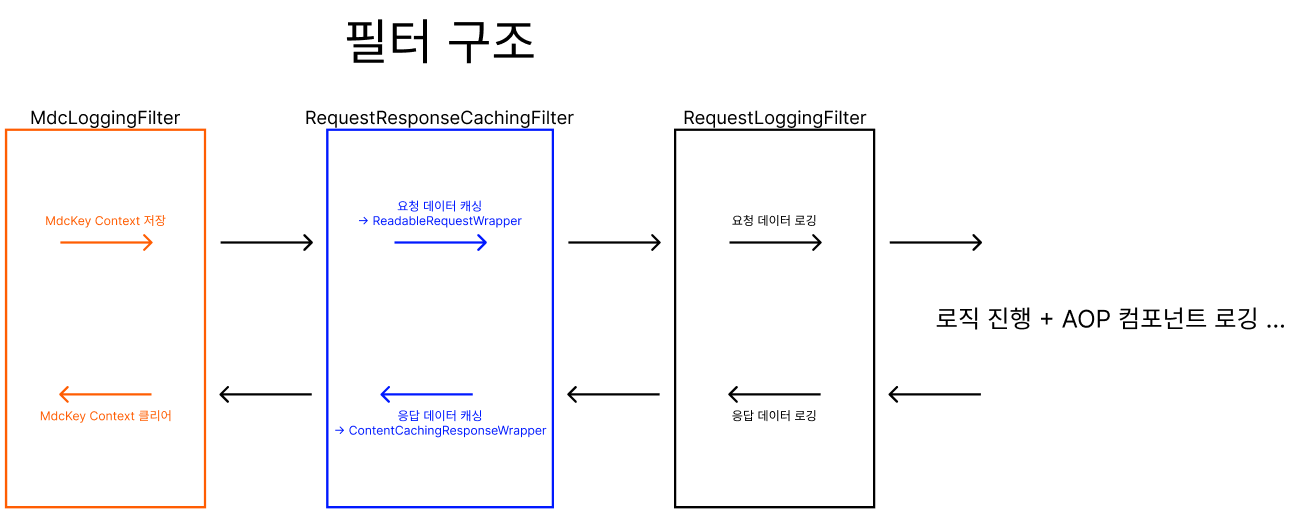
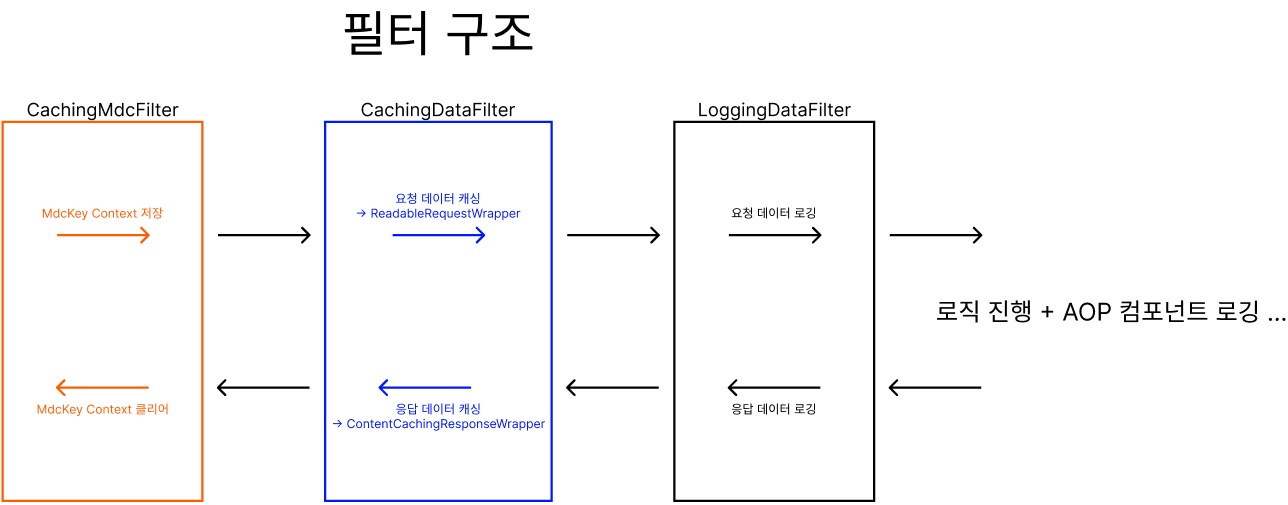
update

diff --git a/_posts/2023-10-25-Request & Response 데이터 로그 남기기.md b/_posts/2023-10-25-Request & Response 데이터 로그 남기기.md
@@ -221,7 +221,7 @@ enum class MdcKey {
     START_TIME_MILLIS,
 }
 
-class MdcLoggingFilter : Filter {
+class CachingMdcFilter : Filter {
     override fun doFilter(
         request: ServletRequest,
         response: ServletResponse,
@@ -418,7 +418,7 @@ fun response(@RequestBody data: Data): Data {
 이를 활용해서 요청 & 응답 데이터를 캐싱하는 Filter를 구현해보자
 
 ```kotlin
-class RequestResponseCachingFilter : OncePerRequestFilter() {
+class CachingDataFilter : OncePerRequestFilter() {
     override fun doFilterInternal(
         request: HttpServletRequest,
         response: HttpServletResponse,
@@ -450,20 +450,20 @@ ContentCachingRequestWrapper에서 caching되는 stream data를 읽기 위해서
 <br>
 현재 구현하고자 하는 로깅 구조는 다음과 같다
 
-1. Filter에서 MdcKey 기반 MDC Map 설정 - MdcLoggingFilter
-2. Filter에서 요청 데이터 캐싱 - RequestResponseCachingFilter
-3. Filter's doFilter에서 Request 데이터 로깅 - RequestLoggingFilter
+1. Filter에서 MdcKey 기반 MDC Map 설정 - CachingMdcFilter
+2. Filter에서 요청 데이터 캐싱 - CachingDataFilter
+3. Filter's doFilter에서 Request 데이터 로깅 - LoggingDataFilter
 4. ...
 5. ArgumentResolver에서 @RequestBody를 활용한 데이터 바인딩
 6. ...
-7. Filter에서 응답 데이터 캐싱 - RequestResponseCachingFilter
-8. Filter's doFilter에서 Response 데이터 로깅 - RequestLoggingFilter
+7. Filter에서 응답 데이터 캐싱 - CachingDataFilter
+8. Filter's doFilter에서 Response 데이터 로깅 - LoggingDataFilter
 
 <br>
-이러한 과정에서 Request 데이터를 로깅하는 것은 아래와 같은 2가지 점으로 인해 불가능하다
+이러한 과정에서 Request 데이터를 로깅하는 것은 아래와 같은 이유로 불가능하다
 
 1. 캐싱없이 읽음 = ArgumentResolver에서 `Stream closed`로 인해 데이터 바인딩 실패
-2. 캐싱 적용 = RequestResponseCachingFilter의 `ContentCachingRequestWrapper`은 이전에 최소 1번은 읽어야 캐싱되는데 여기서 처음 읽으니까 캐싱 불가능
+2. 캐싱 적용 = CachingDataFilter의 `ContentCachingRequestWrapper`은 이전에 최소 1번은 읽어야 캐싱되는데 여기서 처음 읽으니까 캐싱 불가능
 
 <br>
 간단한 테스트를 통해서 최소 1번은 읽혀야 실제로 캐싱되는지 확인해보자
@@ -564,7 +564,7 @@ class ReadableRequestWrapper(
     }
 }
 
-class RequestResponseCachingFilter : OncePerRequestFilter() {
+class CachingDataFilter : OncePerRequestFilter() {
     override fun doFilterInternal(
         request: HttpServletRequest,
         response: HttpServletResponse,
@@ -633,7 +633,7 @@ fun cachingV2(
 ## 4. Request & Response 데이터 로깅 Filter
 
 ```kotlin
-class RequestLoggingFilter(
+class LoggingDataFilter(
     private val loggingStatusManager: LoggingStatusManager,
     vararg ignoredUrls: String,
 ) : Filter {
@@ -753,31 +753,31 @@ class RequestLoggingFilter(
 @Configuration
 class WebLogConfig {
     @Bean
-    fun firstFilter(): FilterRegistrationBean<MdcLoggingFilter> {
-        return FilterRegistrationBean<MdcLoggingFilter>().apply {
+    fun firstFilter(): FilterRegistrationBean<CachingMdcFilter> {
+        return FilterRegistrationBean<CachingMdcFilter>().apply {
             order = 1
-            filter = MdcLoggingFilter()
-            setName("mdcLoggingFilter")
+            filter = CachingMdcFilter()
+            setName("cachingMdcFilter")
             addUrlPatterns("/api/*")
         }
     }
 
     @Bean
-    fun secondFilter(): FilterRegistrationBean<RequestResponseCachingFilter> {
-        return FilterRegistrationBean<RequestResponseCachingFilter>().apply {
+    fun secondFilter(): FilterRegistrationBean<CachingDataFilter> {
+        return FilterRegistrationBean<CachingDataFilter>().apply {
             order = 2
-            filter = RequestResponseCachingFilter()
-            setName("requestResponseCachingFilter")
+            filter = CachingDataFilter()
+            setName("cachingDataFilter")
             addUrlPatterns("/api/*")
         }
     }
 
     @Bean
-    fun thirdFilter(loggingStatusManager: LoggingStatusManager): FilterRegistrationBean<RequestLoggingFilter> {
-        return FilterRegistrationBean<RequestLoggingFilter>().apply {
+    fun thirdFilter(loggingStatusManager: LoggingStatusManager): FilterRegistrationBean<LoggingDataFilter> {
+        return FilterRegistrationBean<LoggingDataFilter>().apply {
             order = 3
-            filter = RequestLoggingFilter(loggingStatusManager, *ignoredUrl)
-            setName("requestLoggingFilter")
+            filter = LoggingDataFilter(loggingStatusManager, *ignoredUrl)
+            setName("loggingDataFilter")
             addUrlPatterns("/api/*")
         }
     }
@@ -904,16 +904,16 @@ class MemoryBookRepository : BookRepository {
 ```
 
 ```text
-[2024-03-30 16:47:37.505] [INFO ] [http-nio-8080-exec-1] [c.s.l.g.f.RequestLoggingFilter] [1d43260b-8bbd-4e30-919e-74fa614b829e] [Request START] = [Task ID = 1d43260b-8bbd-4e30-919e-74fa614b829e, IP = 0:0:0:0:0:0:0:1, HTTP Method = POST, Uri = /api/v1/books, Params = [], 요청 시작 시간 = 2024-03-30T16:47:37.500111] 
-[2024-03-30 16:47:37.507] [INFO ] [http-nio-8080-exec-1] [c.s.l.g.f.RequestLoggingFilter] [1d43260b-8bbd-4e30-919e-74fa614b829e] Request Body = {"name": "Spring"} 
+[2024-03-30 16:47:37.505] [INFO ] [http-nio-8080-exec-1] [c.s.l.g.f.LoggingDataFilter] [1d43260b-8bbd-4e30-919e-74fa614b829e] [Request START] = [Task ID = 1d43260b-8bbd-4e30-919e-74fa614b829e, IP = 0:0:0:0:0:0:0:1, HTTP Method = POST, Uri = /api/v1/books, Params = [], 요청 시작 시간 = 2024-03-30T16:47:37.500111] 
+[2024-03-30 16:47:37.507] [INFO ] [http-nio-8080-exec-1] [c.s.l.g.f.LoggingDataFilter] [1d43260b-8bbd-4e30-919e-74fa614b829e] Request Body = {"name": "Spring"} 
 [2024-03-30 16:47:37.669] [INFO ] [http-nio-8080-exec-1] [c.s.l.g.l.LoggingTracer] [1d43260b-8bbd-4e30-919e-74fa614b829e] |--->BookApi.save(..) args=[Request(name=Spring)] 
 [2024-03-30 16:47:37.669] [INFO ] [http-nio-8080-exec-1] [c.s.l.g.l.LoggingTracer] [1d43260b-8bbd-4e30-919e-74fa614b829e] |    |--->BookService.save(..) args=[Spring] 
 [2024-03-30 16:47:37.669] [INFO ] [http-nio-8080-exec-1] [c.s.l.g.l.LoggingTracer] [1d43260b-8bbd-4e30-919e-74fa614b829e] |    |    |--->MemoryBookRepository.save(..) args=[Book(id=0, name=Spring)] 
 [2024-03-30 16:47:37.671] [INFO ] [http-nio-8080-exec-1] [c.s.l.g.l.LoggingTracer] [1d43260b-8bbd-4e30-919e-74fa614b829e] |    |    |<---MemoryBookRepository.save(..) time=166ms 
 [2024-03-30 16:47:37.671] [INFO ] [http-nio-8080-exec-1] [c.s.l.g.l.LoggingTracer] [1d43260b-8bbd-4e30-919e-74fa614b829e] |    |<---BookService.save(..) time=166ms 
 [2024-03-30 16:47:37.671] [INFO ] [http-nio-8080-exec-1] [c.s.l.g.l.LoggingTracer] [1d43260b-8bbd-4e30-919e-74fa614b829e] |<---BookApi.save(..) time=166ms 
-[2024-03-30 16:47:37.704] [INFO ] [http-nio-8080-exec-1] [c.s.l.g.f.RequestLoggingFilter] [1d43260b-8bbd-4e30-919e-74fa614b829e] Response Body = {"id":1,"name":"Spring"} 
-[2024-03-30 16:47:37.704] [INFO ] [http-nio-8080-exec-1] [c.s.l.g.f.RequestLoggingFilter] [1d43260b-8bbd-4e30-919e-74fa614b829e] [Request END] = [Task ID = 1d43260b-8bbd-4e30-919e-74fa614b829e, IP = 0:0:0:0:0:0:0:1, HTTP Method = POST, Uri = /api/v1/books, HTTP Status = 200, 요청 처리 시간 = 198ms] 
+[2024-03-30 16:47:37.704] [INFO ] [http-nio-8080-exec-1] [c.s.l.g.f.LoggingDataFilter] [1d43260b-8bbd-4e30-919e-74fa614b829e] Response Body = {"id":1,"name":"Spring"} 
+[2024-03-30 16:47:37.704] [INFO ] [http-nio-8080-exec-1] [c.s.l.g.f.LoggingDataFilter] [1d43260b-8bbd-4e30-919e-74fa614b829e] [Request END] = [Task ID = 1d43260b-8bbd-4e30-919e-74fa614b829e, IP = 0:0:0:0:0:0:0:1, HTTP Method = POST, Uri = /api/v1/books, HTTP Status = 200, 요청 처리 시간 = 198ms] 
 ```
 
 - 성공적으로 전역적인 Request & Response 데이터 + 컴포넌트 호출 구조를 로깅할 수 있다
@@ -970,26 +970,26 @@ class EventHandler {
 
 ```text
 // @Async
-[2024-03-30 17:03:14.473] [INFO ] [http-nio-8080-exec-3] [c.s.l.g.f.RequestLoggingFilter] [1b30f0bb-ba49-413c-ada6-0fabea70a2ea] [Request START] = [Task ID = 1b30f0bb-ba49-413c-ada6-0fabea70a2ea, IP = 0:0:0:0:0:0:0:1, HTTP Method = GET, Uri = /api/v1/async, Params = [], 요청 시작 시간 = 2024-03-30T17:03:14.467496200] 
-[2024-03-30 17:03:14.474] [INFO ] [http-nio-8080-exec-3] [c.s.l.g.f.RequestLoggingFilter] [1b30f0bb-ba49-413c-ada6-0fabea70a2ea] Request Body = { Empty } 
+[2024-03-30 17:03:14.473] [INFO ] [http-nio-8080-exec-3] [c.s.l.g.f.LoggingDataFilter] [1b30f0bb-ba49-413c-ada6-0fabea70a2ea] [Request START] = [Task ID = 1b30f0bb-ba49-413c-ada6-0fabea70a2ea, IP = 0:0:0:0:0:0:0:1, HTTP Method = GET, Uri = /api/v1/async, Params = [], 요청 시작 시간 = 2024-03-30T17:03:14.467496200] 
+[2024-03-30 17:03:14.474] [INFO ] [http-nio-8080-exec-3] [c.s.l.g.f.LoggingDataFilter] [1b30f0bb-ba49-413c-ada6-0fabea70a2ea] Request Body = { Empty } 
 [2024-03-30 17:03:14.500] [INFO ] [http-nio-8080-exec-3] [c.s.l.g.l.LoggingTracer] [1b30f0bb-ba49-413c-ada6-0fabea70a2ea] |--->HelloApi.async() args=[] 
 [2024-03-30 17:03:14.502] [INFO ] [http-nio-8080-exec-3] [c.s.l.g.l.LoggingTracer] [1b30f0bb-ba49-413c-ada6-0fabea70a2ea] |<---HelloApi.async() time=29ms 
 [2024-03-30 17:03:14.502] [INFO ] [task-1] [c.s.l.g.l.LoggingTracer] [NO REQUEST ID] |--->HelloService.async() args=[] 
 [2024-03-30 17:03:14.503] [INFO ] [task-1] [c.s.l.g.l.LoggingTracer] [NO REQUEST ID] |<---HelloService.async() time=1ms 
-[2024-03-30 17:03:14.516] [INFO ] [http-nio-8080-exec-3] [c.s.l.g.f.RequestLoggingFilter] [1b30f0bb-ba49-413c-ada6-0fabea70a2ea] Response Body = ok 
-[2024-03-30 17:03:14.516] [INFO ] [http-nio-8080-exec-3] [c.s.l.g.f.RequestLoggingFilter] [1b30f0bb-ba49-413c-ada6-0fabea70a2ea] [Request END] = [Task ID = 1b30f0bb-ba49-413c-ada6-0fabea70a2ea, IP = 0:0:0:0:0:0:0:1, HTTP Method = GET, Uri = /api/v1/async, HTTP Status = 200, 요청 처리 시간 = 42ms] 
+[2024-03-30 17:03:14.516] [INFO ] [http-nio-8080-exec-3] [c.s.l.g.f.LoggingDataFilter] [1b30f0bb-ba49-413c-ada6-0fabea70a2ea] Response Body = ok 
+[2024-03-30 17:03:14.516] [INFO ] [http-nio-8080-exec-3] [c.s.l.g.f.LoggingDataFilter] [1b30f0bb-ba49-413c-ada6-0fabea70a2ea] [Request END] = [Task ID = 1b30f0bb-ba49-413c-ada6-0fabea70a2ea, IP = 0:0:0:0:0:0:0:1, HTTP Method = GET, Uri = /api/v1/async, HTTP Status = 200, 요청 처리 시간 = 42ms] 
 
 // ApplicationEventPublisher
-[2024-03-30 17:04:26.409] [INFO ] [http-nio-8080-exec-1] [c.s.l.g.f.RequestLoggingFilter] [d6d5104c-df73-49f5-81c7-657ab813f7af] [Request START] = [Task ID = d6d5104c-df73-49f5-81c7-657ab813f7af, IP = 0:0:0:0:0:0:0:1, HTTP Method = GET, Uri = /api/v1/event, Params = [], 요청 시작 시간 = 2024-03-30T17:04:26.394100900] 
-[2024-03-30 17:04:26.417] [INFO ] [http-nio-8080-exec-1] [c.s.l.g.f.RequestLoggingFilter] [d6d5104c-df73-49f5-81c7-657ab813f7af] Request Body = { Empty } 
+[2024-03-30 17:04:26.409] [INFO ] [http-nio-8080-exec-1] [c.s.l.g.f.LoggingDataFilter] [d6d5104c-df73-49f5-81c7-657ab813f7af] [Request START] = [Task ID = d6d5104c-df73-49f5-81c7-657ab813f7af, IP = 0:0:0:0:0:0:0:1, HTTP Method = GET, Uri = /api/v1/event, Params = [], 요청 시작 시간 = 2024-03-30T17:04:26.394100900] 
+[2024-03-30 17:04:26.417] [INFO ] [http-nio-8080-exec-1] [c.s.l.g.f.LoggingDataFilter] [d6d5104c-df73-49f5-81c7-657ab813f7af] Request Body = { Empty } 
 [2024-03-30 17:04:26.481] [INFO ] [http-nio-8080-exec-1] [c.s.l.g.l.LoggingTracer] [d6d5104c-df73-49f5-81c7-657ab813f7af] |--->HelloApi.event() args=[] 
 [2024-03-30 17:04:26.488] [INFO ] [http-nio-8080-exec-1] [c.s.l.g.l.LoggingTracer] [d6d5104c-df73-49f5-81c7-657ab813f7af] |    |--->HelloService.event() args=[] 
 [2024-03-30 17:04:26.488] [INFO ] [http-nio-8080-exec-1] [c.s.l.g.l.LoggingTracer] [d6d5104c-df73-49f5-81c7-657ab813f7af] |    |<---HelloService.event() time=79ms 
 [2024-03-30 17:04:26.488] [INFO ] [http-nio-8080-exec-1] [c.s.l.g.l.LoggingTracer] [d6d5104c-df73-49f5-81c7-657ab813f7af] |<---HelloApi.event() time=79ms 
 [2024-03-30 17:04:26.488] [INFO ] [task-1] [c.s.l.g.l.LoggingTracer] [NO REQUEST ID] |--->EventHandler.execute(..) args=[HelloEvent(id=1)] 
 [2024-03-30 17:04:26.488] [INFO ] [task-1] [c.s.l.g.l.LoggingTracer] [NO REQUEST ID] |<---EventHandler.execute(..) time=0ms 
-[2024-03-30 17:04:26.521] [INFO ] [http-nio-8080-exec-1] [c.s.l.g.f.RequestLoggingFilter] [d6d5104c-df73-49f5-81c7-657ab813f7af] Response Body = ok 
-[2024-03-30 17:04:26.521] [INFO ] [http-nio-8080-exec-1] [c.s.l.g.f.RequestLoggingFilter] [d6d5104c-df73-49f5-81c7-657ab813f7af] [Request END] = [Task ID = d6d5104c-df73-49f5-81c7-657ab813f7af, IP = 0:0:0:0:0:0:0:1, HTTP Method = GET, Uri = /api/v1/event, HTTP Status = 200, 요청 처리 시간 = 114ms] 
+[2024-03-30 17:04:26.521] [INFO ] [http-nio-8080-exec-1] [c.s.l.g.f.LoggingDataFilter] [d6d5104c-df73-49f5-81c7-657ab813f7af] Response Body = ok 
+[2024-03-30 17:04:26.521] [INFO ] [http-nio-8080-exec-1] [c.s.l.g.f.LoggingDataFilter] [d6d5104c-df73-49f5-81c7-657ab813f7af] [Request END] = [Task ID = d6d5104c-df73-49f5-81c7-657ab813f7af, IP = 0:0:0:0:0:0:0:1, HTTP Method = GET, Uri = /api/v1/event, HTTP Status = 200, 요청 처리 시간 = 114ms] 
 ```
 
 - 로깅 결과로 알 수 있듯이 현재 구조에서 `비동기 처리`는 동일한 문맥을 제공해주지 않는다
@@ -1049,26 +1049,26 @@ class AsyncConfig : AsyncConfigurer {
 
 ```text
 // Async
-[2024-03-30 17:13:21.994] [INFO ] [http-nio-8080-exec-3] [c.s.l.g.f.RequestLoggingFilter] [f42c476a-f9dc-4cba-b73f-0759b1680843] [Request START] = [Task ID = f42c476a-f9dc-4cba-b73f-0759b1680843, IP = 0:0:0:0:0:0:0:1, HTTP Method = GET, Uri = /api/v1/async, Params = [], 요청 시작 시간 = 2024-03-30T17:13:21.989088400] 
-[2024-03-30 17:13:21.996] [INFO ] [http-nio-8080-exec-3] [c.s.l.g.f.RequestLoggingFilter] [f42c476a-f9dc-4cba-b73f-0759b1680843] Request Body = { Empty } 
+[2024-03-30 17:13:21.994] [INFO ] [http-nio-8080-exec-3] [c.s.l.g.f.LoggingDataFilter] [f42c476a-f9dc-4cba-b73f-0759b1680843] [Request START] = [Task ID = f42c476a-f9dc-4cba-b73f-0759b1680843, IP = 0:0:0:0:0:0:0:1, HTTP Method = GET, Uri = /api/v1/async, Params = [], 요청 시작 시간 = 2024-03-30T17:13:21.989088400] 
+[2024-03-30 17:13:21.996] [INFO ] [http-nio-8080-exec-3] [c.s.l.g.f.LoggingDataFilter] [f42c476a-f9dc-4cba-b73f-0759b1680843] Request Body = { Empty } 
 [2024-03-30 17:13:22.020] [INFO ] [http-nio-8080-exec-3] [c.s.l.g.l.LoggingTracer] [f42c476a-f9dc-4cba-b73f-0759b1680843] |--->HelloApi.async() args=[] 
 [2024-03-30 17:13:22.024] [INFO ] [http-nio-8080-exec-3] [c.s.l.g.l.LoggingTracer] [f42c476a-f9dc-4cba-b73f-0759b1680843] |<---HelloApi.async() time=30ms 
 [2024-03-30 17:13:22.025] [INFO ] [Asynchronous Thread-1] [c.s.l.g.l.LoggingTracer] [f42c476a-f9dc-4cba-b73f-0759b1680843] |--->HelloService.async() args=[] 
 [2024-03-30 17:13:22.025] [INFO ] [Asynchronous Thread-1] [c.s.l.g.l.LoggingTracer] [f42c476a-f9dc-4cba-b73f-0759b1680843] |<---HelloService.async() time=0ms 
-[2024-03-30 17:13:22.040] [INFO ] [http-nio-8080-exec-3] [c.s.l.g.f.RequestLoggingFilter] [f42c476a-f9dc-4cba-b73f-0759b1680843] Response Body = ok 
-[2024-03-30 17:13:22.040] [INFO ] [http-nio-8080-exec-3] [c.s.l.g.f.RequestLoggingFilter] [f42c476a-f9dc-4cba-b73f-0759b1680843] [Request END] = [Task ID = f42c476a-f9dc-4cba-b73f-0759b1680843, IP = 0:0:0:0:0:0:0:1, HTTP Method = GET, Uri = /api/v1/async, HTTP Status = 200, 요청 처리 시간 = 45ms] 
+[2024-03-30 17:13:22.040] [INFO ] [http-nio-8080-exec-3] [c.s.l.g.f.LoggingDataFilter] [f42c476a-f9dc-4cba-b73f-0759b1680843] Response Body = ok 
+[2024-03-30 17:13:22.040] [INFO ] [http-nio-8080-exec-3] [c.s.l.g.f.LoggingDataFilter] [f42c476a-f9dc-4cba-b73f-0759b1680843] [Request END] = [Task ID = f42c476a-f9dc-4cba-b73f-0759b1680843, IP = 0:0:0:0:0:0:0:1, HTTP Method = GET, Uri = /api/v1/async, HTTP Status = 200, 요청 처리 시간 = 45ms] 
 
 // ApplicationEventPublisher
-[2024-03-30 17:13:58.393] [INFO ] [http-nio-8080-exec-2] [c.s.l.g.f.RequestLoggingFilter] [4032ccc5-8968-4314-9515-4150de7b53dc] [Request START] = [Task ID = 4032ccc5-8968-4314-9515-4150de7b53dc, IP = 0:0:0:0:0:0:0:1, HTTP Method = GET, Uri = /api/v1/event, Params = [], 요청 시작 시간 = 2024-03-30T17:13:58.393071100] 
-[2024-03-30 17:13:58.393] [INFO ] [http-nio-8080-exec-2] [c.s.l.g.f.RequestLoggingFilter] [4032ccc5-8968-4314-9515-4150de7b53dc] Request Body = { Empty } 
+[2024-03-30 17:13:58.393] [INFO ] [http-nio-8080-exec-2] [c.s.l.g.f.LoggingDataFilter] [4032ccc5-8968-4314-9515-4150de7b53dc] [Request START] = [Task ID = 4032ccc5-8968-4314-9515-4150de7b53dc, IP = 0:0:0:0:0:0:0:1, HTTP Method = GET, Uri = /api/v1/event, Params = [], 요청 시작 시간 = 2024-03-30T17:13:58.393071100] 
+[2024-03-30 17:13:58.393] [INFO ] [http-nio-8080-exec-2] [c.s.l.g.f.LoggingDataFilter] [4032ccc5-8968-4314-9515-4150de7b53dc] Request Body = { Empty } 
 [2024-03-30 17:13:58.394] [INFO ] [http-nio-8080-exec-2] [c.s.l.g.l.LoggingTracer] [4032ccc5-8968-4314-9515-4150de7b53dc] |--->HelloApi.event() args=[] 
 [2024-03-30 17:13:58.394] [INFO ] [http-nio-8080-exec-2] [c.s.l.g.l.LoggingTracer] [4032ccc5-8968-4314-9515-4150de7b53dc] |    |--->HelloService.event() args=[] 
 [2024-03-30 17:13:58.395] [INFO ] [http-nio-8080-exec-2] [c.s.l.g.l.LoggingTracer] [4032ccc5-8968-4314-9515-4150de7b53dc] |    |<---HelloService.event() time=2ms 
 [2024-03-30 17:13:58.395] [INFO ] [http-nio-8080-exec-2] [c.s.l.g.l.LoggingTracer] [4032ccc5-8968-4314-9515-4150de7b53dc] |<---HelloApi.event() time=2ms 
 [2024-03-30 17:13:58.395] [INFO ] [Asynchronous Thread-2] [c.s.l.g.l.LoggingTracer] [4032ccc5-8968-4314-9515-4150de7b53dc] |--->EventHandler.execute(..) args=[HelloEvent(id=1)] 
 [2024-03-30 17:13:58.395] [INFO ] [Asynchronous Thread-2] [c.s.l.g.l.LoggingTracer] [4032ccc5-8968-4314-9515-4150de7b53dc] |<---EventHandler.execute(..) time=0ms 
-[2024-03-30 17:13:58.396] [INFO ] [http-nio-8080-exec-2] [c.s.l.g.f.RequestLoggingFilter] [4032ccc5-8968-4314-9515-4150de7b53dc] Response Body = ok 
-[2024-03-30 17:13:58.397] [INFO ] [http-nio-8080-exec-2] [c.s.l.g.f.RequestLoggingFilter] [4032ccc5-8968-4314-9515-4150de7b53dc] [Request END] = [Task ID = 4032ccc5-8968-4314-9515-4150de7b53dc, IP = 0:0:0:0:0:0:0:1, HTTP Method = GET, Uri = /api/v1/event, HTTP Status = 200, 요청 처리 시간 = 3ms] 
+[2024-03-30 17:13:58.396] [INFO ] [http-nio-8080-exec-2] [c.s.l.g.f.LoggingDataFilter] [4032ccc5-8968-4314-9515-4150de7b53dc] Response Body = ok 
+[2024-03-30 17:13:58.397] [INFO ] [http-nio-8080-exec-2] [c.s.l.g.f.LoggingDataFilter] [4032ccc5-8968-4314-9515-4150de7b53dc] [Request END] = [Task ID = 4032ccc5-8968-4314-9515-4150de7b53dc, IP = 0:0:0:0:0:0:0:1, HTTP Method = GET, Uri = /api/v1/event, HTTP Status = 200, 요청 처리 시간 = 3ms] 
 ```
 
 - 비동기 처리에서도 성공적으로 MDC 문맥을 유지하고 로깅을 진행할 수 있게 되었다
